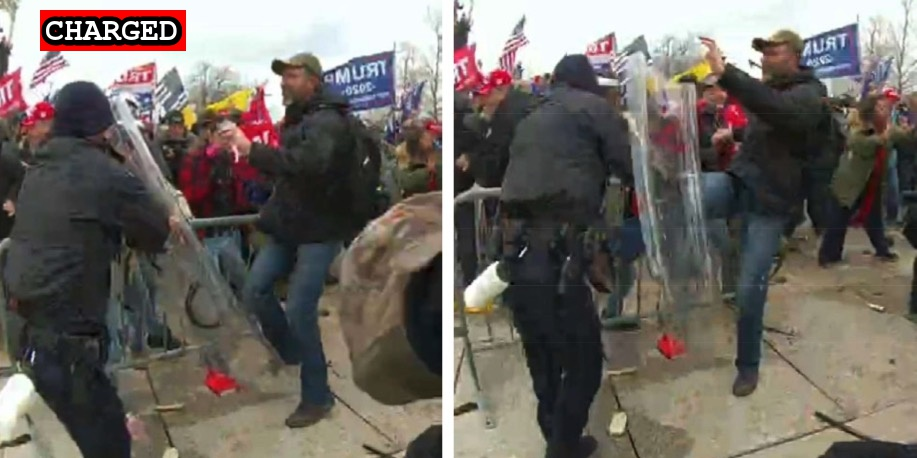
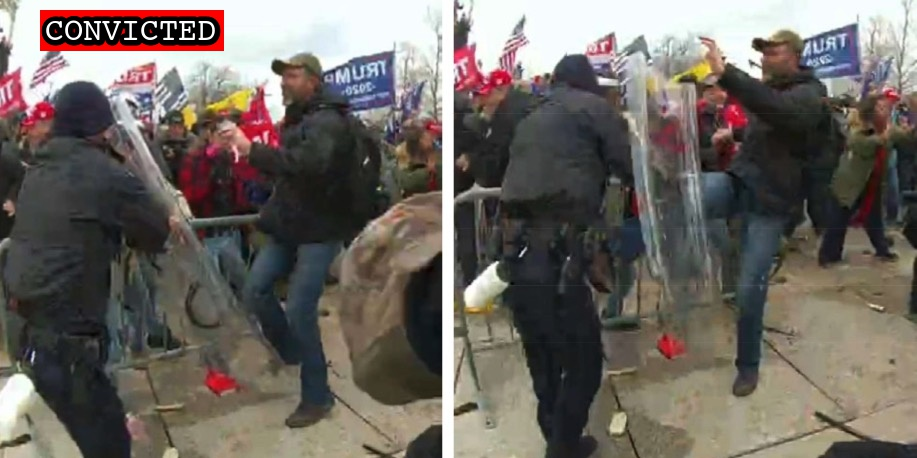
Latest pleas

Changed region(s): [[0.0305, 0.0, 0.2443, 0.1223]]

diff --git a/docs/_suspects/kevin-creek.md b/docs/_suspects/kevin-creek.md
@@ -4,16 +4,16 @@ lastName: Creek
 hashtag: MadMongrel
 aka:
 residence: Georgia
-status: Charged
+status: Convicted
 date: 2021-06-04
 charged: 2021-06-04
 indicted:
-convicted:
+convicted: 2021-12-01
 sentenced:
 dismissed:
 deceased:
-plea_hearing:
-sentencing:
+plea_hearing: 2021-12-01
+sentencing: 2022-03-10
 age: 46
 occupation:
 affiliations:
@@ -34,8 +34,14 @@ published: true
 caseNumber:
 videos:
 charges:
+  - code: 18 USC § 111(a)(1)
+    title: Assaulting, resisting, or impeding certain officers or employees
+    url: https://www.law.cornell.edu/uscode/text/18/111
+    felony: true
 sentence:
 ---
+
 - [News Report](https://www.msn.com/en-us/news/crime/mckinney-man-linked-to-capitol-riot-using-gps-data-court-document-says/ar-BB1eLRWH)
 - [Statement of Facts](https://www.justice.gov/opa/case-multi-defendant/file/1402941/download)
+- [Information](https://storage.courtlistener.com/recap/gov.uscourts.dcd.236923/gov.uscourts.dcd.236923.29.0.pdf)
 - [DOJ Press Release](https://www.justice.gov/usao-dc/pr/georgia-man-arrested-assault-law-enforcement-during-jan-6-capitol-breach)

diff --git a/docs/_suspects/mark-rebegila.md b/docs/_suspects/mark-rebegila.md
@@ -4,16 +4,16 @@ lastName: Rebegila
 hashtag: MarkRebegila
 aka:
 residence: Kansas
-status: Charged
+status: Convicted
 date: 2021-03-10
 charged: 2021-03-10
 indicted:
-convicted: 
-sentenced: 
-dismissed: 
+convicted: 2021-12-01
+sentenced:
+dismissed:
 deceased:
-plea_hearing:
-sentencing:
+plea_hearing: 2021-12-01
+sentencing: 2022-03-10
 age: 31
 occupation:
 affiliations:
@@ -34,6 +34,10 @@ published: true
 caseNumber: 1:21-cr-283
 videos:
 charges:
+- code: 18 USC § 5104(e)(2)(G)
+  title: Parading, demonstrating or picketing in a Capitol building
+  url: https://www.law.cornell.edu/uscode/text/40/5104
+  felony: false
 sentence:
 ---
 - [News Report](https://www.kansas.com/news/local/crime/article249988189.html)
